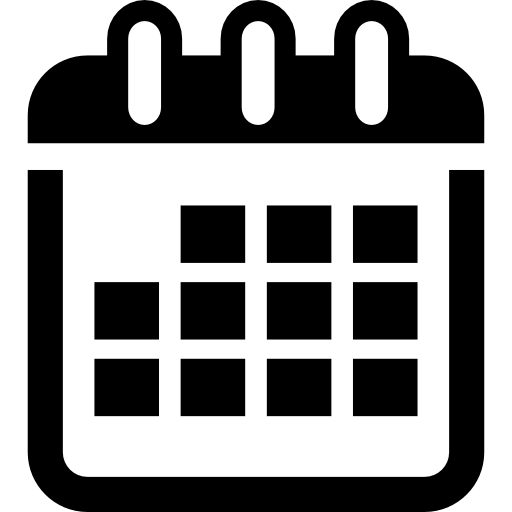
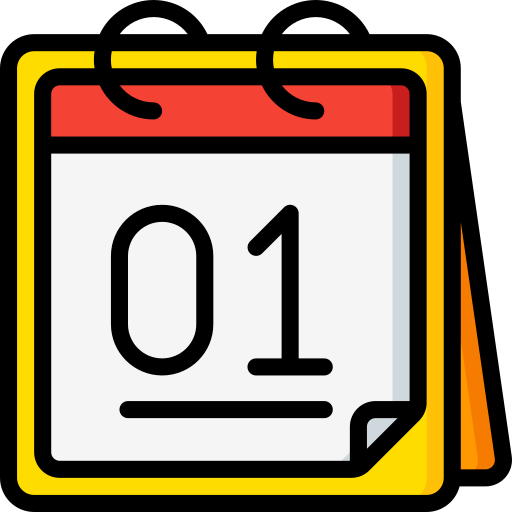
design changes for dashboard

diff --git a/public/DashboardClient.html b/public/DashboardClient.html
@@ -10,6 +10,7 @@
     <link rel='stylesheet' type='text/css' media='screen' href='../public/stylesheets/DashboardClient.css'>
     <link rel="preconnect" href="https://fonts.gstatic.com">
     <link href="https://fonts.googleapis.com/css2?family=Poppins:ital,wght@1,300&display=swap" rel="stylesheet">
+    <!-- <div>Icons made by <a href="https://www.freepik.com" title="Freepik">Freepik</a> from <a href="https://www.flaticon.com/" title="Flaticon">www.flaticon.com</a></div> -->
 </head>
 
 <body>
@@ -45,8 +46,10 @@
                 <h4>AWB:</h4>
             </div>
             <div class="box">
-                <label>Detalii locație pachet</label>
-
+                <div class="title-with-image">
+                    <img src="./assets/parcel.png">
+                    <label>Detalii locație pachet</label>
+                </div>
                 <div class="button-container expandable">
                     <button type="button" class="progress-done">Comanda a fost plasată</button>
                 </div>
@@ -136,7 +139,10 @@
                 </ul>
             </div>
             <div class="box" id="autentificare">
-                <label>Intră în cont pentru mai multe opțiuni</label>
+                <div class="title-with-image">
+                    <img src="./assets/login.png">
+                    <label>Intră în cont pentru mai multe opțiuni</label>
+                </div>
                 <form id="login-form" action="">
                     <input class="input-box" type="email" id="resetEmail" placeholder="Email" required>
                     <input class="input-box" type="email" id="email" name="fname" placeholder="Email" required>
@@ -152,7 +158,11 @@
                 </form>
             </div>
             <div class="box" id="DetaliiComanda">
-                <label>Informații expediere</label>
+                <div class="title-with-image">
+                    <img src="./assets/info.png">
+                    <label>Informații expediere</label>
+                </div>
+
                 <div class="button-container expandable">
                     <button type="button">Număr colet</button>
                 </div>
@@ -173,11 +183,9 @@
                     <li>Numărul 15</li>
                     <li>Bloc 634</li>
                 </ul>
-                <div id="reprogrameazaLivrarea">
-                    <div class="calendar">
-                        <img src="./assets/calendar.png">
-                        <label>Reprogramează livrarea</label>
-                    </div>
+                <div class="title-with-image">
+                    <img src="./assets/calendar.png">
+                    <label>Reprogramează livrarea</label>
                 </div>
                 <form>
                     <input class="input-box" type="date" value="Noua dată de livrare" id="dataLivrare">
@@ -186,6 +194,21 @@
                     </div>
                     <ul hidden class="collapsable-list">
                         <li>Data de livrare schimbată</li>
+                    </ul>
+                </form>
+                <div class="title-with-image">
+                    <img src="./assets/real-estate.png">
+                    <label>Schimbă adresa de livrare</label>
+                </div>
+                <form>
+                    <select class="input-box" name="adresa" id="adresa">
+                        <option value="" disabled selected hidden id="judetSelected">Alege una dintre adresele tale</option>
+                    </select>
+                    <div class="button-container expandable">
+                        <button type="button" id="change">Schimbă adresa de livrare</button>
+                    </div>
+                    <ul hidden class="collapsable-list">
+                        <li>Adresa de livrare schimbată</li>
                     </ul>
                 </form>
             </div>

diff --git a/public/stylesheets/DashboardClient.css b/public/stylesheets/DashboardClient.css
@@ -24,15 +24,15 @@ label {
 img {
     height: 30px;
     width: 30px;
-}
-
-.calendar img {
     margin-right: 3%;
 }
 
-input#dataLivrare {
-    margin: 0px;
-    width: 99%;
+.title-with-image {
+    margin-right: 3%;
+}
+
+.input-box#adresa {
+    width: 93%;
 }
 
 .collapsable-list {
@@ -43,14 +43,6 @@ input#dataLivrare {
 
 .no-space {
     margin: 0px !important;
-}
-
-
-/* dai uncomment la astea si zici daca ti place; daca da, tre modificata pe templates */
-
-.button-container button {
-    /* font-size: 1.3em;
-    height: 2.5em; */
 }
 
 .progress-done {
